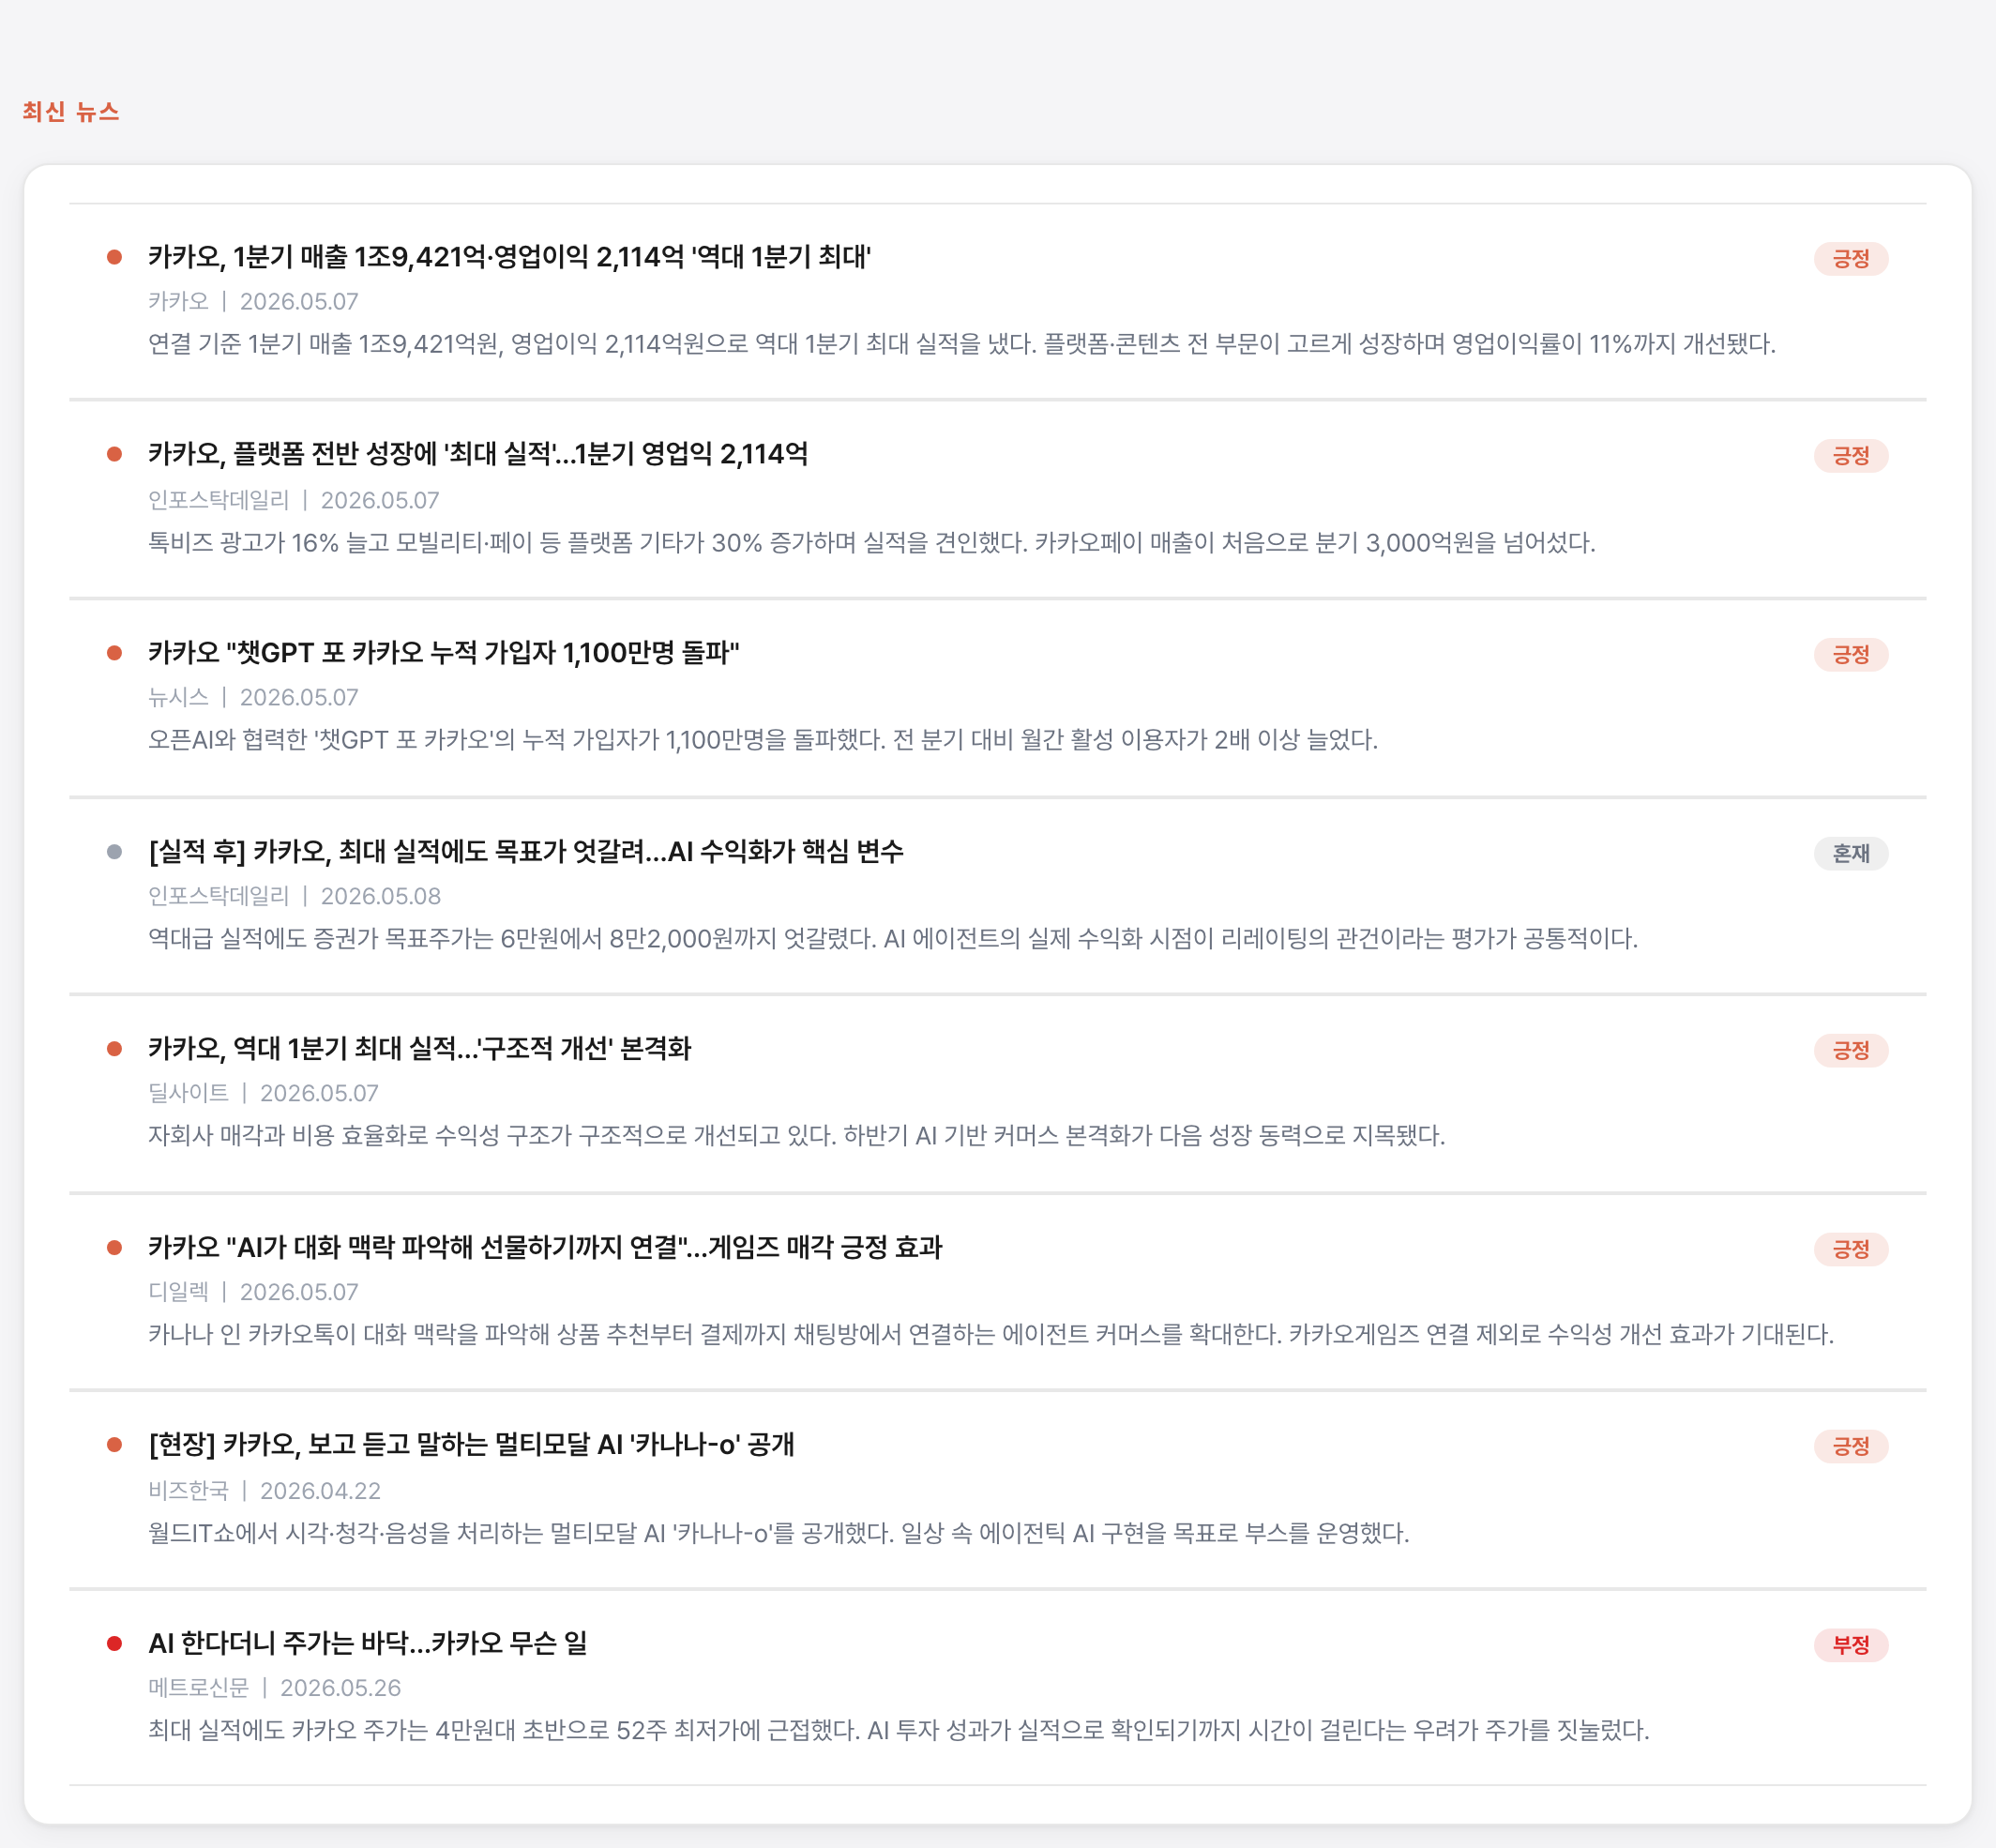
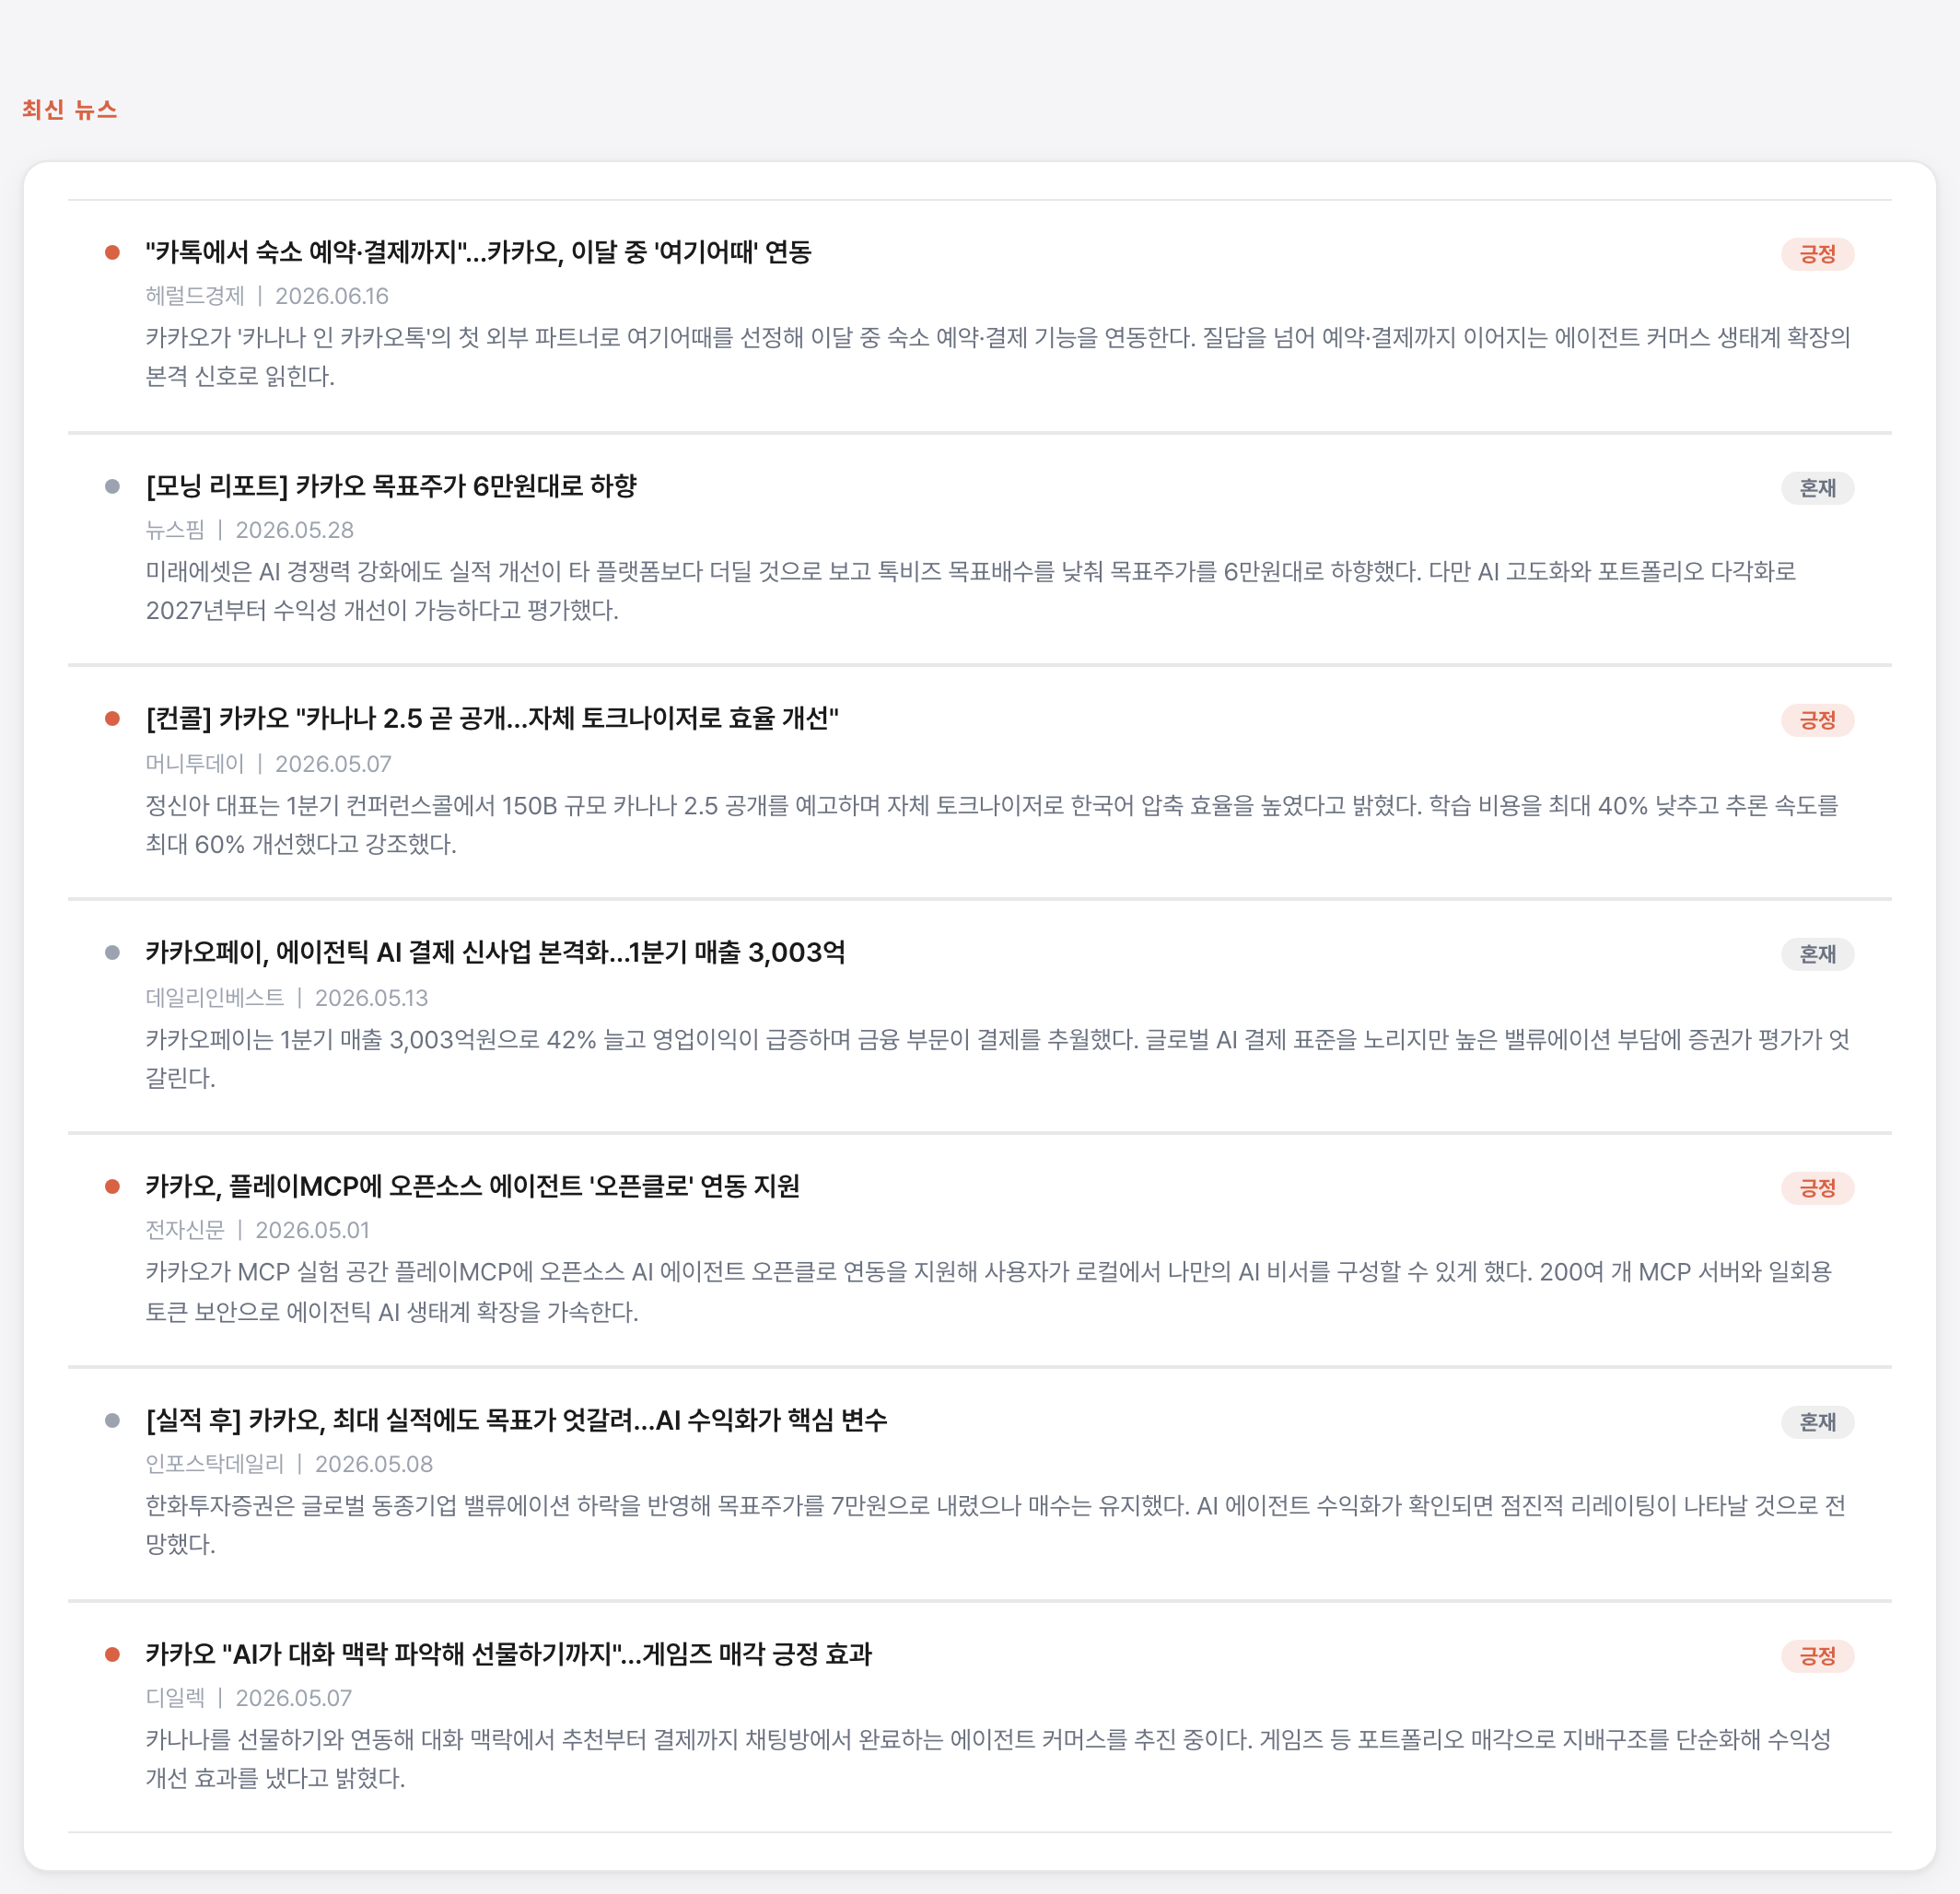
docs: 비즈니스 리더용 README + 카카오 최신 뉴스 반영
- README 전면 재작성: 누가 쓰나 → 무엇을 만드나 → 데이터 신뢰성 →
  예시 → 쓰는 법 순, 기술 세부는 접기(details)로. 비개발자도 읽기 쉽게.
- 카카오 예시를 최신 뉴스(6/16 여기어때 연동 등 6~7월 기사)로 갱신하고
  캡처 전 섹션 재생성.

diff --git a/카카오_20260704.html b/카카오_20260704.html
@@ -751,7 +751,7 @@ const CURR = 35500;
 const ANALYSTS = [{"firm": "미래에셋증권", "r": "Buy", "tp": 82000, "from": 75000, "date": "2026.05.08", "note": "\"자회사 매각 수익성 개선·광고 성장 반영, 목표가 상향\""}, {"firm": "하나증권", "r": "Buy", "tp": 75000, "from": 70000, "date": "2026.05.08", "note": "\"본업 이익 기여도가 주가 회복의 핵심 변수\""}, {"firm": "한화투자증권", "r": "Buy", "tp": 70000, "from": 70000, "date": "2026.05.08", "note": "\"AI 수익화 시점 확인되면 상승 여력 크다\""}, {"firm": "삼성증권", "r": "Hold", "tp": 60000, "from": 60000, "date": "2026.04.13", "note": "\"P/E 29배, 본업 가속·신규 동력 필요\""}, {"firm": "다올투자증권", "r": "Buy", "tp": 70000, "from": 70000, "date": "2026.04.08", "note": "\"1Q26는 뼈대 세우는 구간, 에이전트 커머스 실행이 관건\""}];
 const BULLS = [{"t": "영업이익 2배로 뛴 수익성", "d": "영업이익이 1,054억에서 2,114억으로 늘며 영업이익률이 5.7%에서 10.9%로 올라섰다. 매출 증가폭이 4%대에 그친 점을 감안하면, 이익 개선의 무게는 톱라인이 아니라 비용 구조 자체에 실렸다."}, {"t": "비핵심 자회사 정리 효과", "d": "수익성이 두 배로 벌어진 배경에는 비핵심 자회사 정리와 비용 효율화가 자리한 것으로 보인다. 외형을 키우던 국면에서 남길 사업과 접을 사업을 가리는 국면으로 넘어간 신호로 읽힌다."}, {"t": "플랫폼 지배력에 기반한 커머스", "d": "선물하기와 톡스토어를 축으로 한 커머스는 카카오톡 사용자 기반 위에서 돌아간다. 국민 메신저라는 접점을 이미 확보하고 있어, 신규 트래픽을 사서 키우는 사업보다 이익 방어가 수월하다."}, {"t": "핀테크로 넓어진 수익 기반", "d": "카카오페이를 통한 결제와 금융 서비스는 광고 경기에 덜 흔들리는 수익원 역할을 한다. 본체 플랫폼과 맞물릴수록 결제 데이터가 쌓이고, 이 데이터가 다시 광고와 커머스로 이어질 여지가 있다."}, {"t": "AI 비서 카나나라는 성장 촉매", "d": "AI 비서 카나나는 카카오톡 위에서 검색과 대화를 잇는 새로운 접점이 될 수 있다. 수익화 시점은 아직 불투명하지만, 대규모 사용자 기반에 얹히는 서비스라는 점에서 확산 속도 면의 이점이 있다."}];
 const BEARS = [{"t": "4%대에 그친 톱라인", "d": "매출은 18,637억에서 19,421억으로 4.2% 늘어나는 데 그쳤다. 이익은 두 배로 뛰었지만 외형 성장세가 둔해진 만큼, 비용 절감 효과가 소진된 뒤 이익을 계속 밀어 올릴 동력이 마땅치 않다."}, {"t": "비용 효율화의 한계", "d": "이번 이익 개선은 상당 부분 자회사 정리와 비용 통제에서 나온 것으로 추정된다. 이런 개선은 한 번에 반영되는 성격이 강해, 다음 분기부터는 같은 폭의 증가를 다시 만들기 어렵다."}, {"t": "불확실한 AI 수익화 시점", "d": "카나나를 비롯한 AI 서비스가 언제 매출로 연결될지는 아직 뚜렷하지 않다. 개발과 인프라 비용은 먼저 들어가는 반면, 회수 시점이 늦어지면 개선된 이익률을 다시 갉아먹을 수 있다."}, {"t": "규제와 지배구조 리스크", "d": "플랫폼 규제와 지배구조를 둘러싼 논의는 카카오에 반복적으로 따라붙는 변수다. 사업 확장이나 인수합병 과정에서 제약으로 작용하면, 성장 선택지가 좁아질 수 있다."}, {"t": "네이버와의 경쟁 심화", "d": "검색, 커머스, AI 전반에서 네이버와의 경쟁은 계속 이어진다. 상대가 데이터와 자본을 앞세워 같은 영역을 파고들면, 카카오가 플랫폼 접점만으로 우위를 지키기는 쉽지 않다."}];
-const NEWS = [{"h": "카카오, 1분기 매출 1조9,421억·영업이익 2,114억 '역대 1분기 최대'", "src": "카카오", "date": "2026.05.07", "sent": "pos", "url": "https://www.kakaocorp.com/page/detail/12023", "body": "연결 기준 1분기 매출 1조9,421억원, 영업이익 2,114억원으로 역대 1분기 최대 실적을 냈다. 플랫폼·콘텐츠 전 부문이 고르게 성장하며 영업이익률이 11%까지 개선됐다."}, {"h": "카카오, 플랫폼 전반 성장에 '최대 실적'…1분기 영업익 2,114억", "src": "인포스탁데일리", "date": "2026.05.07", "sent": "pos", "url": "https://www.infostockdaily.co.kr/news/articleView.html?idxno=215705", "body": "톡비즈 광고가 16% 늘고 모빌리티·페이 등 플랫폼 기타가 30% 증가하며 실적을 견인했다. 카카오페이 매출이 처음으로 분기 3,000억원을 넘어섰다."}, {"h": "카카오 \"챗GPT 포 카카오 누적 가입자 1,100만명 돌파\"", "src": "뉴시스", "date": "2026.05.07", "sent": "pos", "url": "https://www.newsis.com/view/NISX20260507_0003619610", "body": "오픈AI와 협력한 '챗GPT 포 카카오'의 누적 가입자가 1,100만명을 돌파했다. 전 분기 대비 월간 활성 이용자가 2배 이상 늘었다."}, {"h": "[실적 후] 카카오, 최대 실적에도 목표가 엇갈려…AI 수익화가 핵심 변수", "src": "인포스탁데일리", "date": "2026.05.08", "sent": "mix", "url": "https://www.infostockdaily.co.kr/news/articleView.html?idxno=215730", "body": "역대급 실적에도 증권가 목표주가는 6만원에서 8만2,000원까지 엇갈렸다. AI 에이전트의 실제 수익화 시점이 리레이팅의 관건이라는 평가가 공통적이다."}, {"h": "카카오, 역대 1분기 최대 실적…'구조적 개선' 본격화", "src": "딜사이트", "date": "2026.05.07", "sent": "pos", "url": "https://dealsite.co.kr/articles/161394", "body": "자회사 매각과 비용 효율화로 수익성 구조가 구조적으로 개선되고 있다. 하반기 AI 기반 커머스 본격화가 다음 성장 동력으로 지목됐다."}, {"h": "카카오 \"AI가 대화 맥락 파악해 선물하기까지 연결\"…게임즈 매각 긍정 효과", "src": "디일렉", "date": "2026.05.07", "sent": "pos", "url": "https://www.thelec.kr/news/articleView.html?idxno=56176", "body": "카나나 인 카카오톡이 대화 맥락을 파악해 상품 추천부터 결제까지 채팅방에서 연결하는 에이전트 커머스를 확대한다. 카카오게임즈 연결 제외로 수익성 개선 효과가 기대된다."}, {"h": "[현장] 카카오, 보고 듣고 말하는 멀티모달 AI '카나나-o' 공개", "src": "비즈한국", "date": "2026.04.22", "sent": "pos", "url": "https://www.bizhankook.com/bk/article/32196", "body": "월드IT쇼에서 시각·청각·음성을 처리하는 멀티모달 AI '카나나-o'를 공개했다. 일상 속 에이전틱 AI 구현을 목표로 부스를 운영했다."}, {"h": "AI 한다더니 주가는 바닥…카카오 무슨 일", "src": "메트로신문", "date": "2026.05.26", "sent": "neg", "url": "https://www.metroseoul.co.kr/article/20260526500141", "body": "최대 실적에도 카카오 주가는 4만원대 초반으로 52주 최저가에 근접했다. AI 투자 성과가 실적으로 확인되기까지 시간이 걸린다는 우려가 주가를 짓눌렀다."}];
+const NEWS = [{"h": "\"카톡에서 숙소 예약·결제까지\"…카카오, 이달 중 '여기어때' 연동", "src": "헤럴드경제", "date": "2026.06.16", "sent": "pos", "url": "https://v.daum.net/v/FiT7yffztk?f=p", "body": "카카오가 '카나나 인 카카오톡'의 첫 외부 파트너로 여기어때를 선정해 이달 중 숙소 예약·결제 기능을 연동한다. 질답을 넘어 예약·결제까지 이어지는 에이전트 커머스 생태계 확장의 본격 신호로 읽힌다."}, {"h": "[모닝 리포트] 카카오 목표주가 6만원대로 하향", "src": "뉴스핌", "date": "2026.05.28", "sent": "mix", "url": "https://news.nate.com/view/20260528n06376", "body": "미래에셋은 AI 경쟁력 강화에도 실적 개선이 타 플랫폼보다 더딜 것으로 보고 톡비즈 목표배수를 낮춰 목표주가를 6만원대로 하향했다. 다만 AI 고도화와 포트폴리오 다각화로 2027년부터 수익성 개선이 가능하다고 평가했다."}, {"h": "[컨콜] 카카오 \"카나나 2.5 곧 공개…자체 토크나이저로 효율 개선\"", "src": "머니투데이", "date": "2026.05.07", "sent": "pos", "url": "https://www.mt.co.kr/tech/2026/05/07/2026050709160389497", "body": "정신아 대표는 1분기 컨퍼런스콜에서 150B 규모 카나나 2.5 공개를 예고하며 자체 토크나이저로 한국어 압축 효율을 높였다고 밝혔다. 학습 비용을 최대 40% 낮추고 추론 속도를 최대 60% 개선했다고 강조했다."}, {"h": "카카오페이, 에이전틱 AI 결제 신사업 본격화…1분기 매출 3,003억", "src": "데일리인베스트", "date": "2026.05.13", "sent": "mix", "url": "http://www.dailyinvest.kr/news/articleView.html?idxno=70693", "body": "카카오페이는 1분기 매출 3,003억원으로 42% 늘고 영업이익이 급증하며 금융 부문이 결제를 추월했다. 글로벌 AI 결제 표준을 노리지만 높은 밸류에이션 부담에 증권가 평가가 엇갈린다."}, {"h": "카카오, 플레이MCP에 오픈소스 에이전트 '오픈클로' 연동 지원", "src": "전자신문", "date": "2026.05.01", "sent": "pos", "url": "https://www.etnews.com/20260501000045", "body": "카카오가 MCP 실험 공간 플레이MCP에 오픈소스 AI 에이전트 오픈클로 연동을 지원해 사용자가 로컬에서 나만의 AI 비서를 구성할 수 있게 했다. 200여 개 MCP 서버와 일회용 토큰 보안으로 에이전틱 AI 생태계 확장을 가속한다."}, {"h": "[실적 후] 카카오, 최대 실적에도 목표가 엇갈려…AI 수익화가 핵심 변수", "src": "인포스탁데일리", "date": "2026.05.08", "sent": "mix", "url": "https://www.infostockdaily.co.kr/news/articleView.html?idxno=215730", "body": "한화투자증권은 글로벌 동종기업 밸류에이션 하락을 반영해 목표주가를 7만원으로 내렸으나 매수는 유지했다. AI 에이전트 수익화가 확인되면 점진적 리레이팅이 나타날 것으로 전망했다."}, {"h": "카카오 \"AI가 대화 맥락 파악해 선물하기까지\"…게임즈 매각 긍정 효과", "src": "디일렉", "date": "2026.05.07", "sent": "pos", "url": "https://www.thelec.kr/news/articleView.html?idxno=56176", "body": "카나나를 선물하기와 연동해 대화 맥락에서 추천부터 결제까지 채팅방에서 완료하는 에이전트 커머스를 추진 중이다. 게임즈 등 포트폴리오 매각으로 지배구조를 단순화해 수익성 개선 효과를 냈다고 밝혔다."}];
 const PERSONAS = [{"name": "워런 버핏", "type": "가치 투자·경제적 해자", "rating": "hold", "desc": "버크셔 해서웨이 회장. 60년간 연평균 +19.8%를 달성한 가치 투자의 살아있는 전설", "eval": "영업이익이 1년 만에 2배로 뛴 건 반갑지만, 순이익이 영업이익을 웃도는 이익 구조는 본업이 아닌 일회성 요인이 섞였을 가능성을 의심하게 만든다. 카카오는 규제와 지배구조가 얽혀 내 이해 범위 밖이라, 확실한 안전마진 없이는 손을 대지 않고 지켜보겠다."}, {"name": "피터 린치", "type": "생활 속 성장주·GARP", "rating": "hold", "desc": "마젤란 펀드를 13년간 연평균 +29% 운용. 생활 속에서 열 배 오를 종목을 찾은 대가", "eval": "모두가 매일 쓰는 메신저라 이해하기 쉽고 이익률이 5.7%에서 10.9%로 뛴 건 좋은 그림이지만, 매출 성장이 +4%로 식은 성장주는 텐배거가 되기 어렵다. AI 카나나가 실제 매출로 잡히는 걸 눈으로 확인하기 전까지는 지켜볼 종목이다."}, {"name": "벤저민 그레이엄", "type": "안전마진·정량 가치", "rating": "hold", "desc": "가치 투자의 창시자. 증권분석과 현명한 투자자의 저자, 안전마진 개념의 아버지", "eval": "자본이 143조에서 154조로 늘고 순이익이 안정적으로 흑자인 점은 재무 건전성 면에서 나쁘지 않다. 다만 단 한 분기의 이익 급증은 안정적 이익 이력이라 부를 수 없고, 밸류에이션이 보수적 가치 대비 충분한 할인을 주는지 확인되기 전까지는 투기가 아니라 관망이다."}, {"name": "필립 피셔", "type": "성장주·경영진 품질", "rating": "hold", "desc": "위대한 기업에 장기 투자하라의 저자. 스커틀벗 리서치로 성장주 투자의 틀을 세운 인물", "eval": "수익성 개선은 경영진의 비용 규율이 작동하고 있다는 신호로 반갑다. 그러나 AI 비서 카나나가 R&D 투자를 지속 성장으로 전환할 수 있는지, 그 제품 파이프라인의 질을 현장에서 확인하기 전에는 프리미엄을 지불할 근거가 부족하다."}, {"name": "찰리 멍거", "type": "품질·다분야 사고", "rating": "hold", "desc": "버크셔 부회장. 멀티디서플린 사고와 인버전으로 버핏의 투자를 완성한 지혜의 대가", "eval": "이익률이 두 배로 개선된 사업을 미워할 이유는 없지만, 지배구조와 규제가 얽힌 한국 플랫폼은 인센티브 구조가 지저분해 정직하게 판단하기 어렵다. 너무 어려운 사업은 그냥 안 하는 게 상책이니, 싼 가격도 아닌 지금은 패스다."}, {"name": "캐시 우드", "type": "파괴적 혁신", "rating": "buy", "desc": "ARK Invest 창립자. 파괴적 혁신 기업에 집중 투자하는 성장주 투자의 아이콘", "eval": "AI 비서 카나나와 커머스, 핀테크가 결합된 플랫폼은 여러 해에 걸친 지수적 성장의 초입에 서 있고, 지금의 매출 둔화는 AI 대전환을 앞둔 일시적 정체일 뿐이다. 이익률이 이미 두 배로 뛴 실행력을 보면 시장은 AI 수익화 옵션 가치를 지나치게 낮게 매기고 있다."}, {"name": "빌 애크먼", "type": "집중 행동주의", "rating": "hold", "desc": "퍼싱스퀘어 창립자. 소수 고품질 기업에 집중 투자하는 행동주의 투자의 대표주자", "eval": "이익률이 두 배로 뛴 건 자본 배분과 비용 규율이 개선되고 있다는 강한 촉매 신호다. 다만 복잡한 지배구조와 규제 리스크가 가치 실현을 막는 구조적 걸림돌이라, 이 매듭이 풀리는 촉매가 보일 때까지는 집중 투자를 유보한다."}, {"name": "마이클 버리", "type": "역발상·딥 밸류", "rating": "hold", "desc": "사이언 캐피털 창립자. 서브프라임 붕괴를 예측한 빅쇼트의 주인공, 역발상 딥밸류 투자자", "eval": "자본이 두꺼워지고 순이익이 흑자인 점은 하방을 어느 정도 받쳐주지만, 순이익이 영업이익을 넘는 이익 구성은 지분법이나 평가이익 같은 소프트한 숫자를 의심하게 만든다. 하드 넘버로 확실히 싸다는 확신이 서기 전까지 역발상 베팅을 걸 이유는 없다."}, {"name": "나심 탈렙", "type": "꼬리 위험·안티프래질", "rating": "hold", "desc": "블랙스완의 저자. 꼬리 위험과 안티프래질 개념으로 리스크를 재정의한 사상가", "eval": "자본 대비 부채 부담이 크지 않고 순현금 창출이 되는 점은 취약하지 않다는 신호지만, 규제와 지배구조라는 정치적 꼬리 위험이 언제든 비선형으로 터질 수 있는 구조다. 한 분기의 매끄러운 이익 급등이 오히려 숨은 취약성을 가릴 수 있으니 열광하지 않는다."}, {"name": "모니시 파브라이", "type": "단도 투자·비대칭", "rating": "hold", "desc": "파브라이 펀드 운용자. 단도 투자로 하방은 막고 상방은 여는 비대칭 베팅의 대가", "eval": "두꺼운 자본과 흑자 현금흐름 덕에 앞면이 나오면 이기고 뒷면이 나와도 크게 잃지 않는 하방 보호는 어느 정도 갖췄다. 다만 지금 밸류에이션에서 자본을 두 배로 불릴 만한 명확한 상방 비대칭이 보이지 않아, 단순하고 싼 다른 기회를 기다리겠다."}, {"name": "스탠리 드러켄밀러", "type": "거시·비대칭 베팅", "rating": "buy", "desc": "듀케인 패밀리오피스 회장. 30년 무손실, 매크로와 추세를 읽는 헤지펀드의 전설", "eval": "영업이익률이 5.7%에서 10.9%로 점프하는 이익 모멘텀의 변곡점은 내가 좋아하는 비대칭 셋업이고, AI 카나나라는 내러티브 전환이 붙으면 큰 폭의 재평가가 가능하다. 다만 매출 성장이 다시 꺾이거나 규제가 악화되면 즉시 손절할 준비를 하고 올라탄다."}, {"name": "라케시 준준왈라", "type": "장기 성장·인도 시장", "rating": "hold", "desc": "인도의 워런 버핏. 5천 달러로 시작해 수십억 자산을 일군 장기 성장 투자의 전설", "eval": "국민 메신저라는 해자와 두 배로 개선된 이익률, 튼튼해진 자본은 장기 부의 창출 후보로서 매력적이다. 그러나 매출 성장이 +4%로 둔화되고 밸류에이션이 이 개선을 이미 반영했을 수 있어, 충분한 안전마진이 확인될 때까지는 서두르지 않는다."}, {"name": "애스워스 다모다란", "type": "내재가치·스토리와 숫자", "rating": "hold", "desc": "뉴욕대 스턴 교수. 밸류에이션의 세계적 권위자, 스토리와 숫자를 잇는 내재가치 분석의 대가", "eval": "이익률이 두 배로 뛴 숫자는 인상적이지만, 매출이 +4%밖에 못 크는 스토리에서 이 마진 개선이 지속 가능한지가 밸류에이션을 가르는 핵심 가정이다. 지금 주가가 AI 수익화 성공을 이미 얼마나 반영했는지가 관건이며, 그 기대치가 스토리보다 앞서 있다면 중립이 정직한 결론이다."}];
 
 /* ═══════════════ HELPERS ═══════════════ */

diff --git a/README.md b/README.md
@@ -1,57 +1,87 @@
-# dart
+# dart — 종목 하나로 애널리스트급 실적 리포트
 
-> DART 공시 데이터로 인터랙티브 애널리스트 HTML 리포트를 자동 생성하는 Claude Code 스킬
+> 상장사 이름만 넣으면, 금융감독원 공시 데이터로 만든 인터랙티브 실적 리포트가 몇 분 만에 나옵니다.
 
 [![License: MIT](https://img.shields.io/badge/License-MIT-blue.svg)](LICENSE)
 
----
-
-## 개요
-
-`/dart 카카오` 한 줄이면 끝납니다.
-
-DART Open API에서 재무제표·공시 데이터를 수집하고, 13인 전설적 투자자의 철학으로 기업을 평가한 인터랙티브 HTML 리포트를 생성합니다. 라이트/다크 테마, Chart.js 차트, Pretendard 폰트가 기본 포함됩니다.
-
-**예시** → [카카오 1Q2026 리포트 열어보기](https://airoasting.github.io/dart/%EC%B9%B4%EC%B9%B4%EC%98%A4_20260704.html)  ·  [SK하이닉스 (큰 숫자 사례)](https://airoasting.github.io/dart/SK%ED%95%98%EC%9D%B4%EB%8B%89%EC%8A%A4_20260704.html)
+**바로 보기** → [카카오 1Q2026 리포트](https://airoasting.github.io/dart/%EC%B9%B4%EC%B9%B4%EC%98%A4_20260704.html)  ·  [SK하이닉스 (큰 숫자 사례)](https://airoasting.github.io/dart/SK%ED%95%98%EC%9D%B4%EB%8B%89%EC%8A%A4_20260704.html)
 
 ---
 
-## 작동 방식
+## 누가 쓰면 좋은가
 
-LLM이 HTML을 통째로 쓰지 않습니다. 보일러플레이트(CSS·차트·레이아웃)는 `assets/template.html`에 고정돼 있고, 스킬은 **데이터(`data.json`)만 만들어** `assets/build_report.py`로 결합합니다. 리포트 한 건이 몇 분이면 끝납니다.
+- 종목의 실적을 **빠르게, 한눈에** 파악하고 싶은 경영자·투자자
+- 증권사 리포트를 기다리기 전에 **내 손으로** 먼저 훑어보고 싶은 분
+- 코딩을 몰라도 됩니다. 한 줄이면 리포트가 만들어집니다.
 
-- **재무** — DART Open API 연결 재무제표 (전년 동기 비교)
-- **주가** — KRX 전일 종가·52주 범위 (`assets/price.py`, 웹 검색보다 정확)
-- **뉴스·애널리스트·사업부문·페르소나·강세약세** — 서브에이전트로 병렬 수집·생성
-- **기준일** — 리포트 생성일(실행일)로 자동 기록
-- **차트 축** — 데이터에 맞춰 자동 스케일 (하드코딩 없음)
+## 무엇을 만들어 주나
+
+`/dart 카카오` — 이 한 줄이면 아래 6개 섹션이 담긴 인터랙티브 HTML 리포트가 만들어집니다. 라이트·다크 테마와 차트가 기본 포함됩니다.
+
+| 섹션 | 무엇을 보여주나 |
+|------|------|
+| **핵심 실적** | 매출 · 영업이익 · 순이익, 전년 동기 대비 |
+| **성장 기여도** | 무엇이 실적을 끌어올렸나 (워터폴 차트) |
+| **사업별 매출** | 부문별 비교 + 클릭 드릴다운 |
+| **애널리스트 시각** | 증권사 목표주가 · 컨센서스 · 강세/약세 근거 |
+| **관련 뉴스** | 최신 국내 기사 (긍정·부정·혼재 분류) |
+| **투자자 시각** | 13인 전설적 투자자가 이 종목을 본다면 (가상 평가) |
+
+## 믿을 수 있나 — 데이터 출처
+
+- **재무** — 금융감독원 **DART 전자공시**의 공식 재무제표 (전년 동기 비교)
+- **주가** — 한국거래소(KRX) **전일 종가** (추측 없이 실제 종가·52주 범위)
+- **뉴스·애널리스트** — 실제 기사·증권사 리포트에서 **확인된 것만**
+- 추정치가 섞인 값은 화면에 **명확히 표시**하고, 투자자 시각은 AI 시뮬레이션임을 밝힙니다
+
+## 예시로 보기 — 카카오 1Q2026
+
+> 영업이익이 1년 만에 2배로 뛴 수익성 개선 분기입니다. 🔗 [리포트 전체 열어보기](https://airoasting.github.io/dart/%EC%B9%B4%EC%B9%B4%EC%98%A4_20260704.html)
+
+| 지표 | 2025 1Q | 2026 1Q | 전년 대비 |
+|------|---------|---------|-----|
+| 매출 | 18,637억 | **19,421억** | +4.2% |
+| 영업이익 | 1,054억 (이익률 5.7%) | **2,114억 (10.9%)** | +100.6% |
+| 당기순이익 | 2,003억 | **2,268억** | +13.2% |
+
+### 대시보드 헤더
+![대시보드 헤더](assets/screenshots/01_hero.png)
+
+### 핵심 실적 (KPI)
+![KPI 카드](assets/screenshots/02_kpi.png)
+
+### 성장 기여도
+![성장 기여도 워터폴 차트](assets/screenshots/03_growth.png)
+
+### 사업별 매출
+![사업별 매출 세그먼트 차트](assets/screenshots/04_segment.png)
+
+### 애널리스트 시각
+![컨센서스 · 강세/약세](assets/screenshots/06_market.png)
+
+### 관련 뉴스
+![국내 기사 카드](assets/screenshots/07_news.png)
+
+### 투자자 시각
+![13인 투자자 페르소나](assets/screenshots/08_persona.png)
+
+> 아주 큰 숫자도 잘 다룹니다 — [SK하이닉스 1Q2026 리포트](https://airoasting.github.io/dart/SK%ED%95%98%EC%9D%B4%EB%8B%89%EC%8A%A4_20260704.html)(분기 매출 52조·영업이익률 71.5%)에서도 차트가 데이터에 맞춰 자동으로 조정됩니다.
 
 ---
 
-## 빠른 시작
+## 쓰는 법 (설치는 한 번만)
 
-### 1. 스킬 설치
+1. **스킬 설치** — 터미널에 아래 한 줄:
+   ```bash
+   git clone https://github.com/airoasting/dart ~/.claude/skills/dart
+   ```
+2. **DART API 키 발급** — [opendart.fss.or.kr](https://opendart.fss.or.kr)에서 무료로 받아 프로젝트 `.env`에 추가:
+   ```env
+   DART_API_KEY=발급받은_키
+   ```
+3. **필요한 패키지** — `pip install requests pandas`
 
-```bash
-# Claude Code 전역 스킬 디렉터리에 클론
-git clone https://github.com/airoasting/dart ~/.claude/skills/dart
-```
-
-### 2. DART API 키 발급
-
-[DART Open API](https://opendart.fss.or.kr) 에서 무료 발급 후 프로젝트 루트 `.env`에 추가:
-
-```env
-DART_API_KEY=your_key_here
-```
-
-### 3. Python 패키지 설치
-
-```bash
-pip install requests pandas
-```
-
-### 4. 실행
+이후 Claude Code에서 이렇게 부르면 됩니다:
 
 ```
 /dart 카카오
@@ -59,137 +89,39 @@ pip install requests pandas
 실적 리포트 만들어줘 — 네이버
 ```
 
-출력 파일은 자동으로 번호가 매겨집니다:
+리포트는 `output/` 폴더에 `종목명_날짜_번호.html`로 저장됩니다.
+
+---
+
+## 작동 방식 (기술 참고)
+
+HTML을 매번 통째로 만들지 않습니다. 보일러플레이트(디자인·차트·레이아웃)는 `assets/template.html`에 고정돼 있고, 스킬은 **데이터만 만들어** `assets/build_report.py`로 결합합니다. 그래서 빠르고, 디자인이 매번 일정하며, 차트 축은 데이터에 맞춰 자동 조정됩니다. 뉴스·애널리스트·페르소나 같은 무거운 조사는 여러 작업을 병렬로 돌려 시간을 줄입니다.
+
+<details>
+<summary>파일 구조 펼치기</summary>
 
 ```
-output/카카오_20260704_01.html
-output/카카오_20260704_02.html   ← 같은 날 재실행 시
+~/.claude/skills/dart/
+├── SKILL.md                    # 스킬 워크플로우
+├── assets/
+│   ├── template.html           # 고정 템플릿 (디자인·차트)
+│   ├── build_report.py         # 데이터 + 템플릿 → 리포트
+│   ├── data.example.json       # 데이터 형식(스키마) + 카카오 예시
+│   ├── price.py                # 전일 종가·52주 (KRX)
+│   ├── dart_client.py          # DART API 클라이언트
+│   └── corp_codes_listed.csv   # 상장사 코드 (오프라인 검색)
+├── investor_persona/           # 13인 투자자 철학 파일 (_ALL.md 통합본)
+└── references/                 # 설계 문서 (런타임 미사용)
 ```
-
----
-
-## 리포트 구성
-
-| 섹션 | 내용 |
-|------|------|
-| **KPI 카드** | 매출액 · 영업이익 · 순이익 (YoY % 배지 + 인사이트 칩) |
-| **성장 기여도** | 전기 대비 증감 waterfall |
-| **사업별 매출** | 세그먼트별 바 차트 + 드릴다운 |
-| **애널리스트 시각** | 컨센서스 도넛 · 목표주가 · Bull / Bear 근거 |
-| **관련 뉴스** | 실적 발표 전후 2주 국내 신문사 기사 6~8건 (긍/부정/혼재 분류) |
-| **투자자 시각** | 13인 투자자 페르소나 평가 |
-
----
-
-## 예시 — 카카오 1Q2026
-
-> `/dart 카카오` 실행 결과. 영업이익이 1년 만에 2배로 뛴 수익성 개선 분기입니다.
-
-🔗 **[리포트 열어보기](https://airoasting.github.io/dart/%EC%B9%B4%EC%B9%B4%EC%98%A4_20260704.html)**
-
-| 지표 | 2025 1Q | 2026 1Q | YoY |
-|------|---------|---------|-----|
-| 매출 | 18,637억 | **19,421억** | +4.2% |
-| 영업이익 | 1,054억 (OPM 5.7%) | **2,114억 (OPM 10.9%)** | +100.6% |
-| 당기순이익 | 2,003억 | **2,268억** | +13.2% |
-
-재무는 DART 공시 그대로, 주가는 KRX 전일 종가, 사업부문 매출은 공개 성장률로 역산한 추정치입니다. 아래는 리포트 각 섹션 캡처입니다.
-
-### 대시보드 헤더
-
-![예시: 대시보드 헤더](assets/screenshots/01_hero.png)
-
-### KPI 카드
-
-![예시: KPI 카드 — 매출액 · 영업이익 · 순이익 (YoY % 배지)](assets/screenshots/02_kpi.png)
-
-### 성장 기여도 분석
-
-![예시: 성장 기여도 Waterfall 차트](assets/screenshots/03_growth.png)
-
-### 사업별 매출 상세
-
-![예시: 사업별 매출 세그먼트 바 차트](assets/screenshots/04_segment.png)
-
-### 애널리스트 시각
-
-![예시: 컨센서스 · Bull / Bear](assets/screenshots/06_market.png)
-
-### 관련 뉴스
-
-![예시: 국내 신문사 기사 카드](assets/screenshots/07_news.png)
-
-### 투자자 시각
-
-![예시: 13인 페르소나 평가](assets/screenshots/08_persona.png)
-
-> 큰 숫자 사례가 궁금하면 [SK하이닉스 1Q2026 리포트](https://airoasting.github.io/dart/SK%ED%95%98%EC%9D%B4%EB%8B%89%EC%8A%A4_20260704.html)(분기 매출 52조·영업이익률 71.5%)도 열어볼 수 있습니다. 극단적으로 큰 값에서도 차트 축이 데이터에 맞춰 자동 스케일됩니다.
-
----
+</details>
 
 ## 투자자 페르소나
 
 `investor_persona/`에 13인의 투자자 철학 파일이 있습니다. 각 파일은 **Overview → Core Principles → Required Analysis Sequence → Decision Rules → Risk and Uncertainty Rules → Anti-Hallucination Rules** 구조로, 그 투자자의 원칙·판단 절차와 지어내지 않기 위한 규칙을 담습니다. 스킬은 이 13개를 합친 통합본 `investor_persona/_ALL.md` 한 파일을 읽어 적용합니다.
 
-rating(매수·보유·매도)은 고정이 아닙니다. 각 투자자의 Decision Rules를 실제 기업 데이터에 적용해 동적으로 결정됩니다.
+매수·보유·매도 판단은 고정이 아닙니다. 각 투자자의 판단 규칙을 실제 기업 데이터에 적용해 매번 새로 결정됩니다.
 
-피터 린치 · 캐시 우드 · 마이클 버리 · 스탠리 드러켄밀러 · 라케시 중주왈라 · 워런 버핏 · 찰리 멍거 · 필립 피셔 · 빌 애크먼 · 애스워스 다모다란 · 모니시 파브라이 · 벤저민 그레이엄 · 나심 탈렙
-
----
-
-## 폴더 구조
-
-```
-~/.claude/skills/dart/
-├── SKILL.md                       # 스킬 정의 — 동작 순서 · 데이터 가이드 · 규칙
-├── README.md
-├── LICENSE
-│
-├── 카카오_20260704.html            # 출력 예시 (대표)
-├── SK하이닉스_20260704.html        # 출력 예시 (큰 숫자 사례)
-├── kakao_20260510.html            # 초기 ground-truth
-│
-├── references/                    # 사람용 설계 문서 (런타임에 안 읽음)
-│   ├── dart-api.md                # DART API 엔드포인트 · 보고서 코드
-│   ├── design-system.md           # CSS 설계 (template.html에 반영됨)
-│   └── section-templates.md       # HTML/JS 설계 (template.html에 반영됨)
-│
-├── assets/
-│   ├── template.html              # 고정 보일러플레이트 템플릿
-│   ├── build_report.py            # data.json + template → HTML 빌더
-│   ├── data.example.json          # 데이터 계약(스키마) + 카카오 예시
-│   ├── dart_client.py             # DART Open API 클라이언트
-│   ├── price.py                   # 전일 종가·52주 (KRX)
-│   ├── corp_codes_listed.csv      # 상장사 3,963개 corp_code (오프라인 검색)
-│   └── screenshots/               # README 예시 이미지
-│
-└── investor_persona/              # 13인 투자자 철학 파일 (_ALL.md 통합본 포함)
-    ├── peter_lynch.md
-    ├── cathie_wood.md
-    ├── michael_burry.md
-    ├── stanley_druckenmiller.md
-    ├── rakesh_jhunjhunwala.md
-    ├── warren_buffett.md
-    ├── charlie_munger.md
-    ├── philip_fisher.md
-    ├── bill_ackman.md
-    ├── aswath_damodaran.md
-    ├── mohnish_pabrai.md
-    ├── benjamin_graham.md
-    └── nassim_taleb.md
-```
-
----
-
-## corp_codes 갱신
-
-상장사 코드는 DART에서 수시로 업데이트됩니다. 최신 목록이 필요할 때:
-
-```python
-from dart_client import DartClient
-client = DartClient()
-client._build_corp_codes_csv('assets/corp_codes_listed.csv')
-```
+피터 린치 · 캐시 우드 · 마이클 버리 · 스탠리 드러켄밀러 · 라케시 준준왈라 · 워런 버핏 · 찰리 멍거 · 필립 피셔 · 빌 애크먼 · 애스워스 다모다란 · 모니시 파브라이 · 벤저민 그레이엄 · 나심 탈렙
 
 ---
 
@@ -197,8 +129,6 @@ client._build_corp_codes_csv('assets/corp_codes_listed.csv')
 
 [MIT](LICENSE) © airoasting
 
----
-
 ## 면책 고지
 
-이 스킬이 생성하는 리포트는 공개 공시 데이터를 기반으로 한 참고 자료입니다. 투자 권유가 아니며, 최종 투자 판단과 그에 따른 손익 책임은 전적으로 투자자 본인에게 있습니다. 투자자 페르소나 섹션은 각 인물의 공개된 철학을 AI가 시뮬레이션한 가상 평가이며, 실제 의견이 아닙니다.
+이 스킬이 생성하는 리포트는 공개 공시 데이터를 기반으로 한 참고 자료입니다. 투자 권유가 아니며, 최종 투자 판단과 그에 따른 손익 책임은 전적으로 투자자 본인에게 있습니다. 「투자자 시각」 섹션은 각 인물의 공개된 철학을 AI가 시뮬레이션한 가상 평가이며, 실제 의견이 아닙니다.